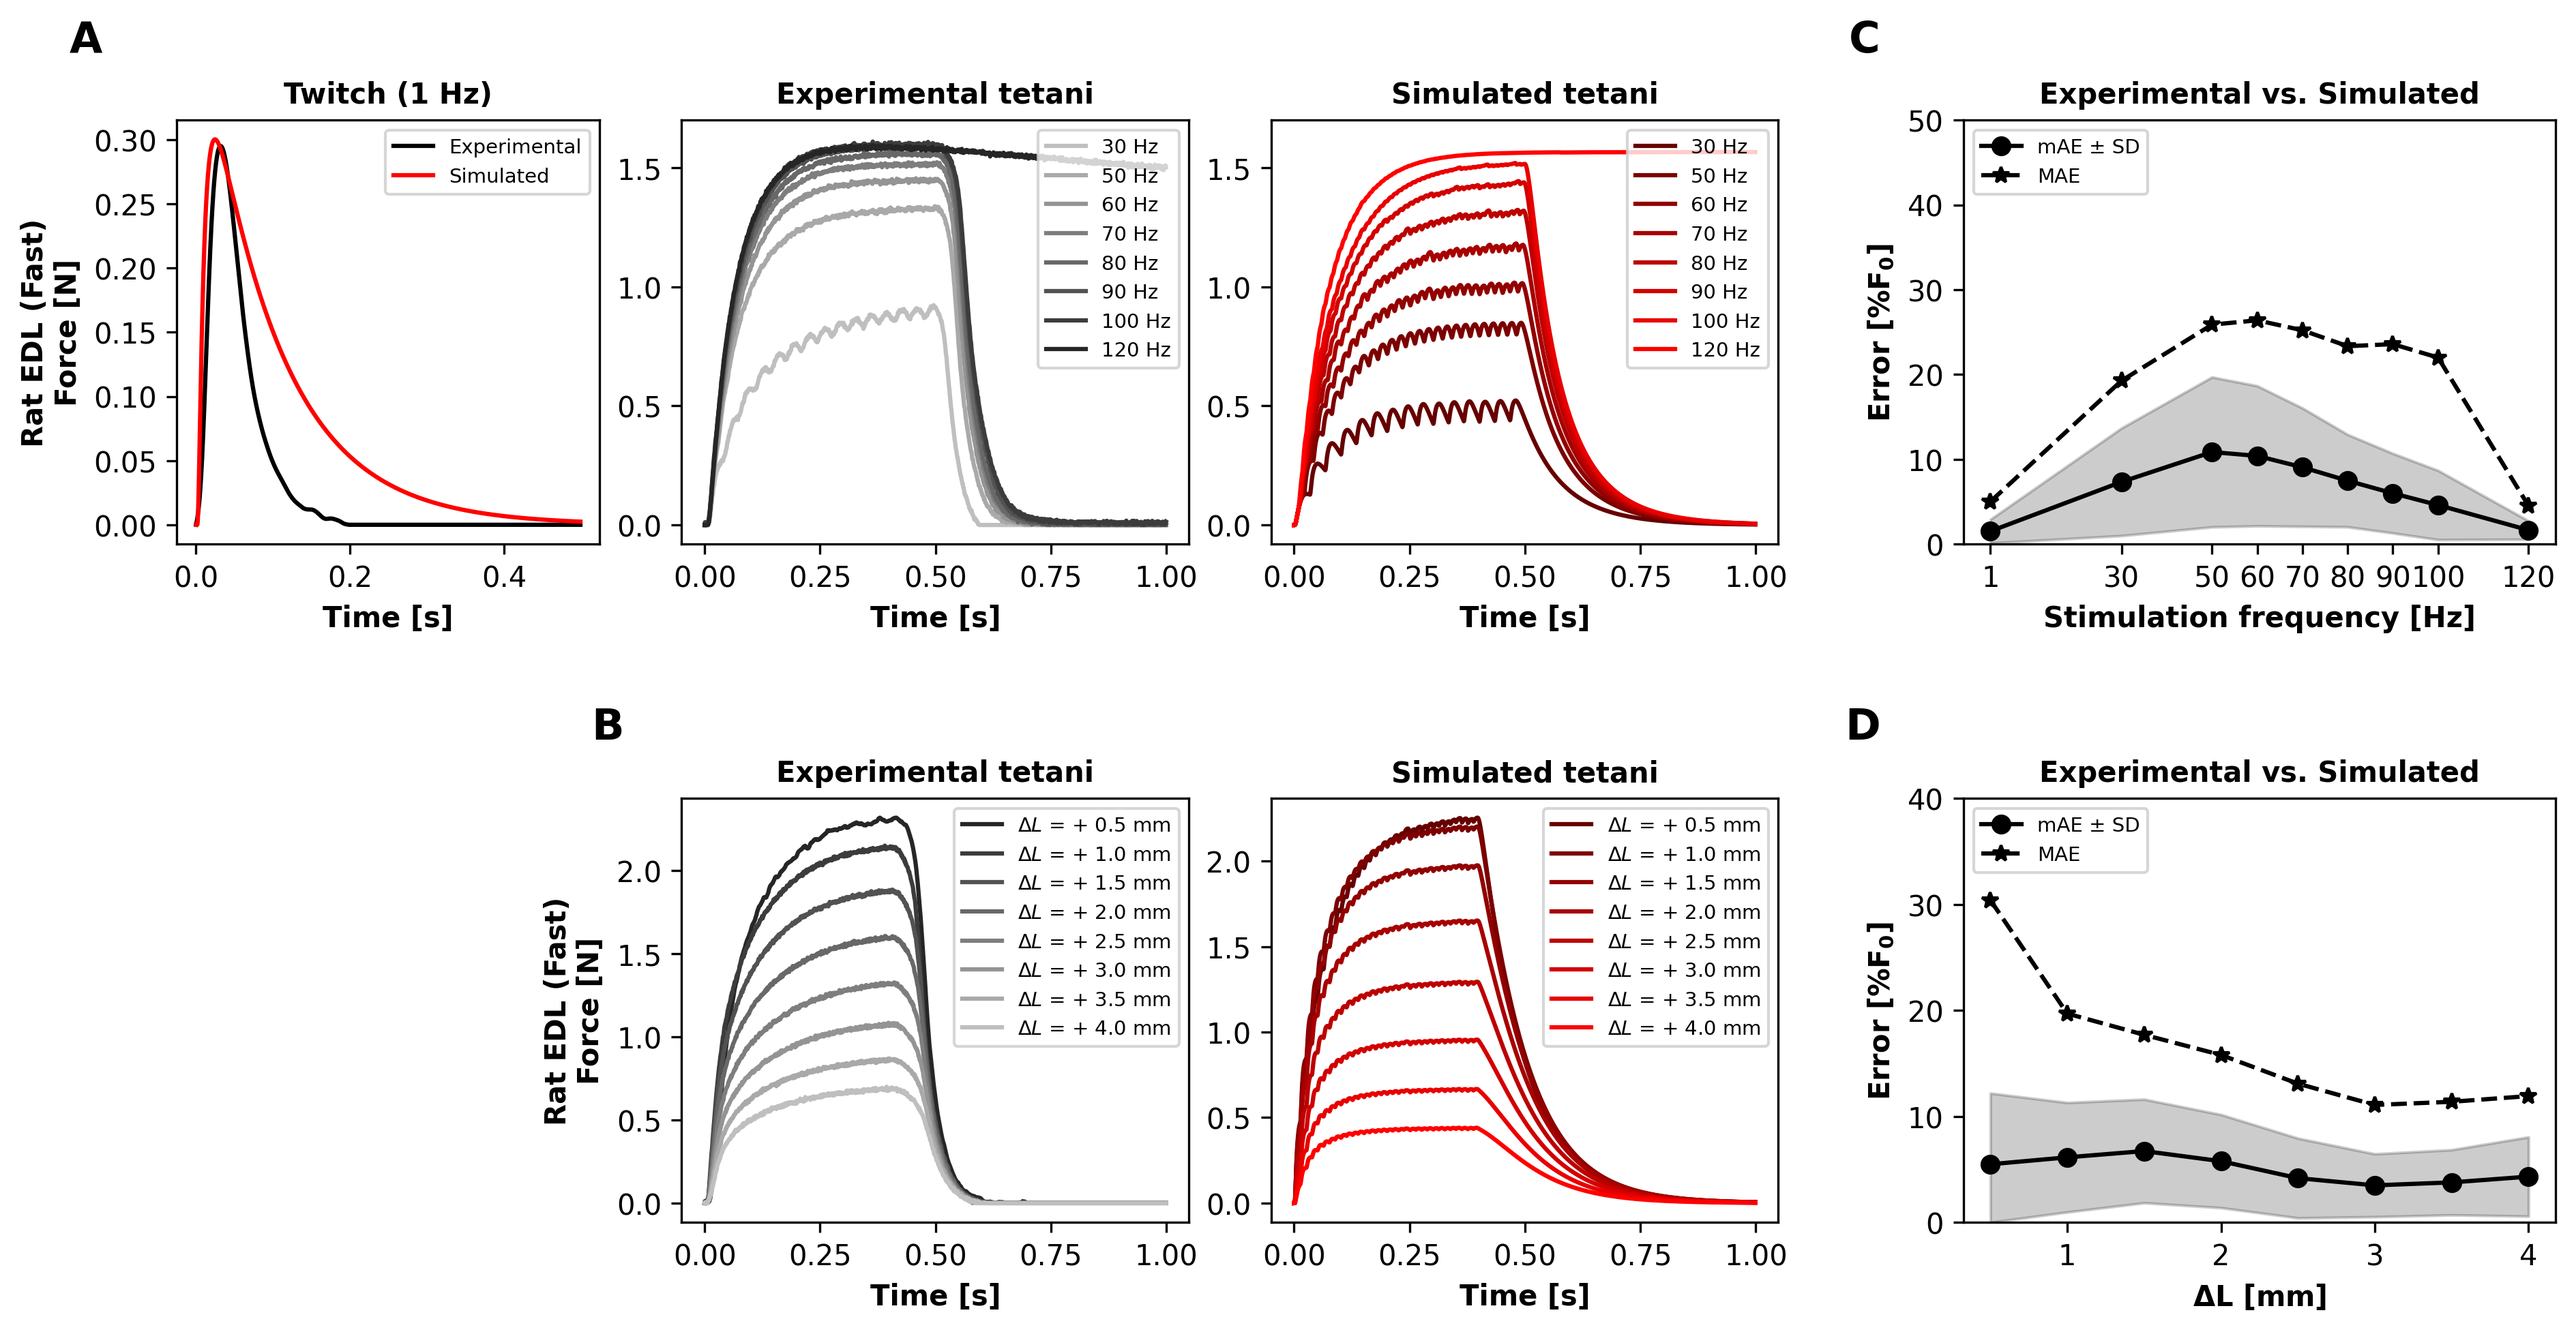
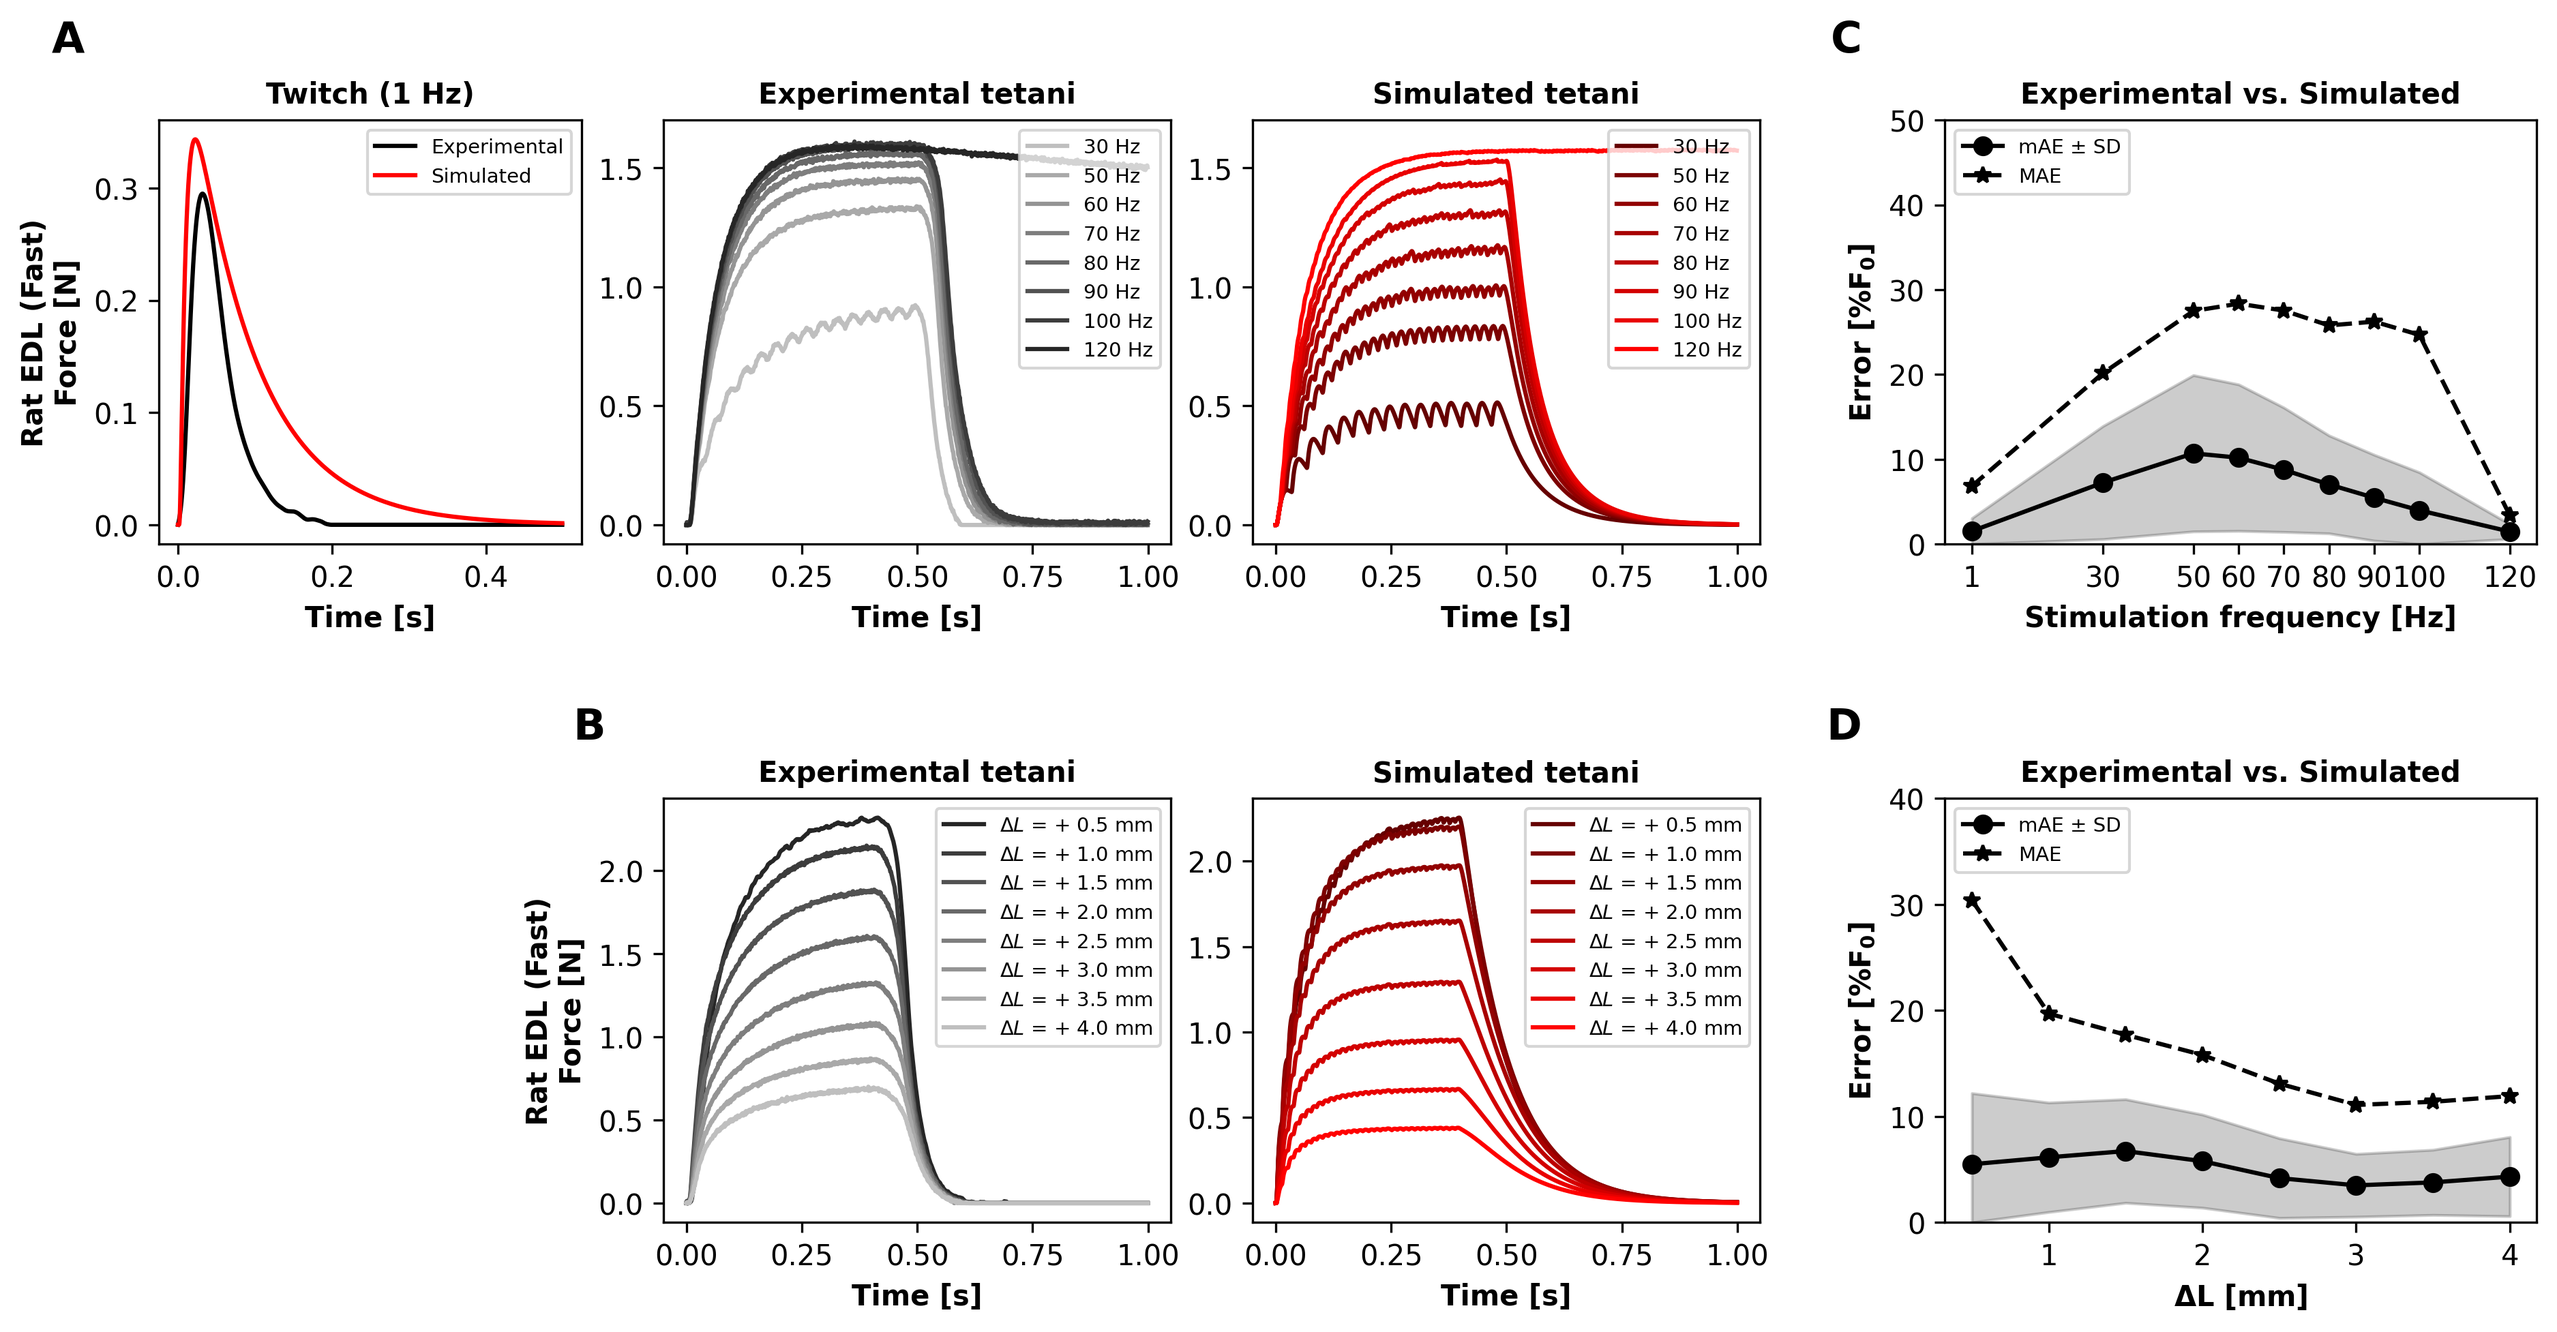
Resaved png low resolution of fast iso benchmarks with updated input data. Optimizations work. Minor corrections to benchmark_trials inputs.

diff --git a/benchmark_trials.py b/benchmark_trials.py
@@ -346,7 +346,7 @@ all_trials = {
 
     # Cat CF muscle, dyn (Brown et al. 1999)
     "cat_CF_120Hz_0.95L0_short": {
-        "scale": "Muscle", "muscle": "cat_CF", "benchmark": "fast_dyn", "trial": "short", "freq": 120, "t_end": 0.16,
+        "scale": "Muscle", "muscle": "cat_CF", "benchmark": "fast_dyn", "trial": "short", "l_M_0_scale": "0.95", "freq": 120, "t_end": 0.16,
         "MVC": 15.4, "l_T_slack": 24.3, "l_M_opt": 21.84, "l_M_0": 21.84*0.95, "alpha_0": 0,
         "use_SE": True, "use_PE": True, "use_FL": True, "use_FV": True, "use_yielding": False, "use_sag": False,        
         "optimization": {

diff --git a/benchmark_res_plots.py b/benchmark_res_plots.py
@@ -16,7 +16,7 @@ from matplotlib.lines import Line2D
 import matplotlib.pyplot as plt
 from scipy.stats import wilcoxon
 
-save_figures = False # option to save figures in benchmark_Figures
+save_figures = True # option to save figures in benchmark_Figures
 figures_path = Path() / "benchmark_Figures" # figures folder
 
 # Numerical and plotting helpers
